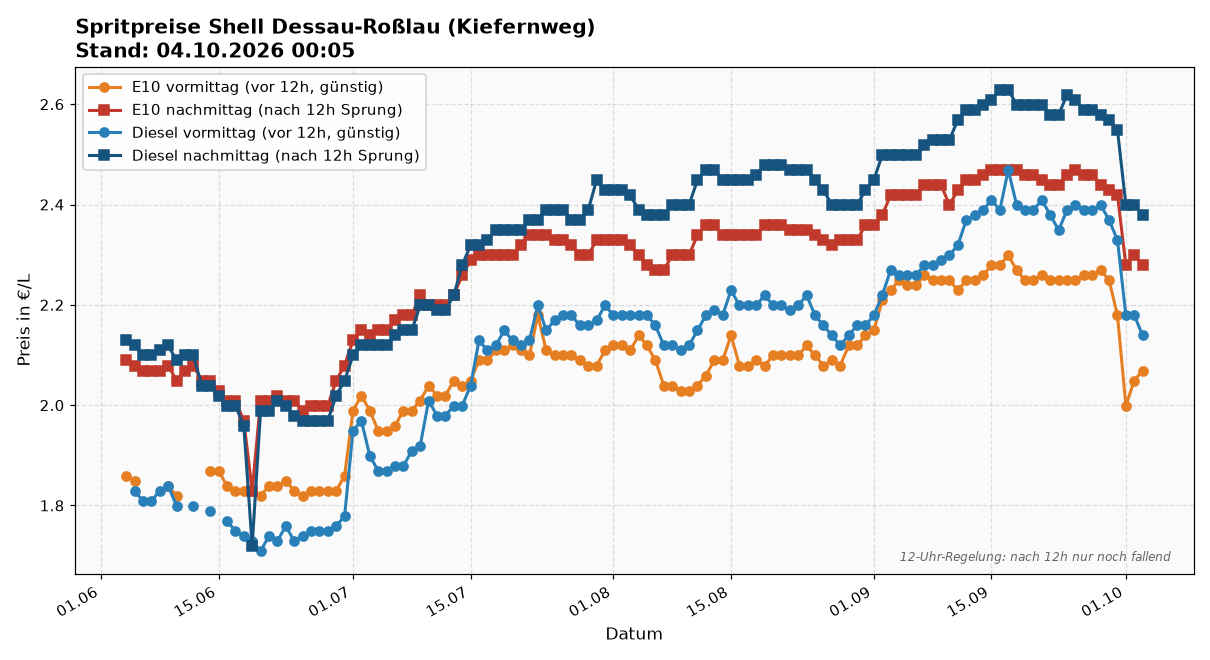
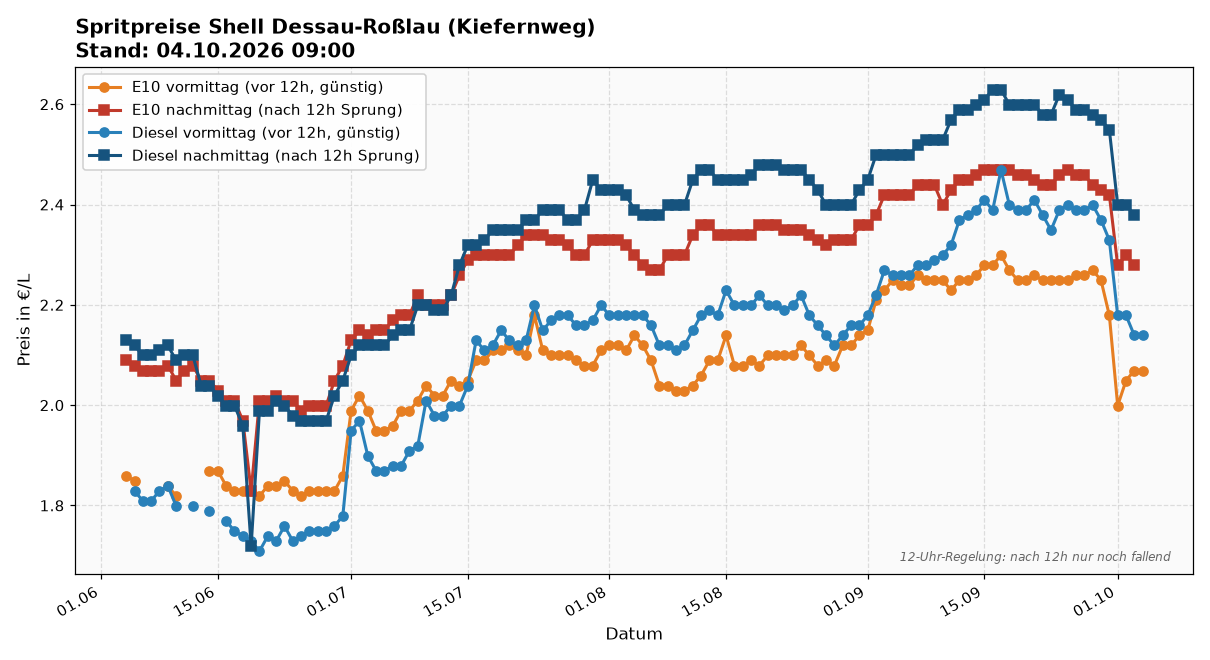
update: spritpreise 2026-10-04 09:00

diff --git a/index.html b/index.html
@@ -19,17 +19,17 @@
 </head>
 <body>
 <h1>🛢 Spritpreise Shell Dessau-Roßlau (Kiefernweg)</h1>
-<div class="sub">Source: Tankerkönig · Stand: 04.10.2026 00:05</div>
+<div class="sub">Source: Tankerkönig · Stand: 04.10.2026 09:00</div>
 
 <img src="latest.png" alt="Preisverlauf">
 
 <div class="latest">
   <strong>Heute (2026-10-04)</strong>
-  <div style="color:#888;font-style:italic;margin-bottom:0.5em;">Noch keine Messung heute — cron läuft 09:00 + 12:10.</div>
+  
   <table>
-    <tr><td>E10 vormittag</td><td class="price">— €</td></tr>
+    <tr><td>E10 vormittag</td><td class="price">2.069 €</td></tr>
     <tr><td>E10 nachmittag</td><td class="price">— €</td></tr>
-    <tr><td>Diesel vormittag</td><td class="price">— €</td></tr>
+    <tr><td>Diesel vormittag</td><td class="price">2.139 €</td></tr>
     <tr><td>Diesel nachmittag</td><td class="price">— €</td></tr>
   </table>
 </div>
